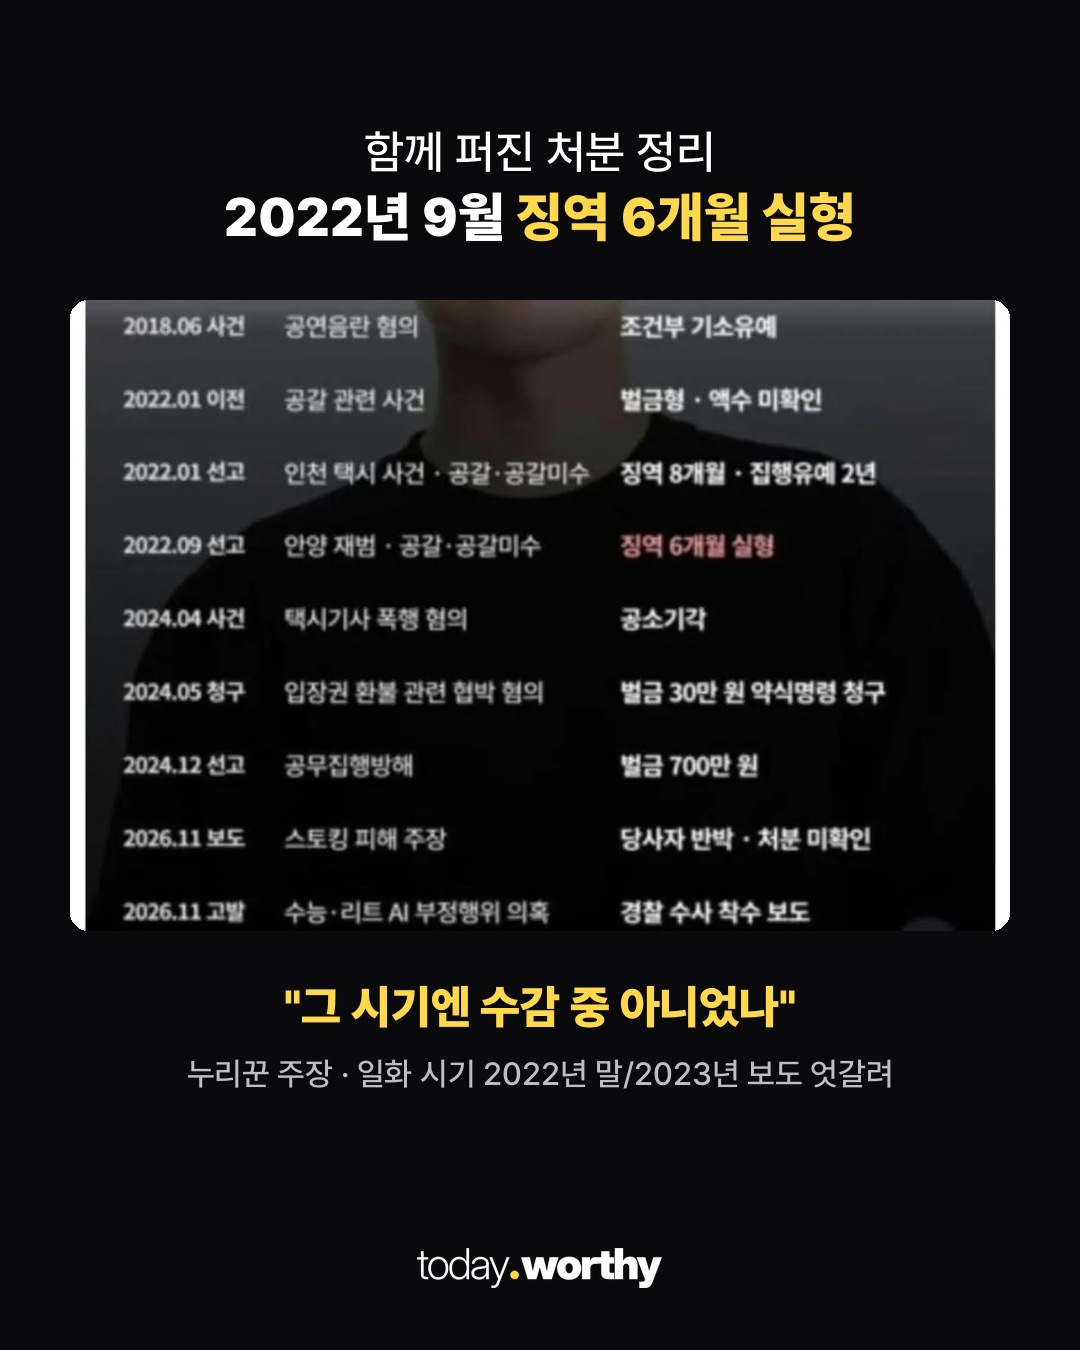
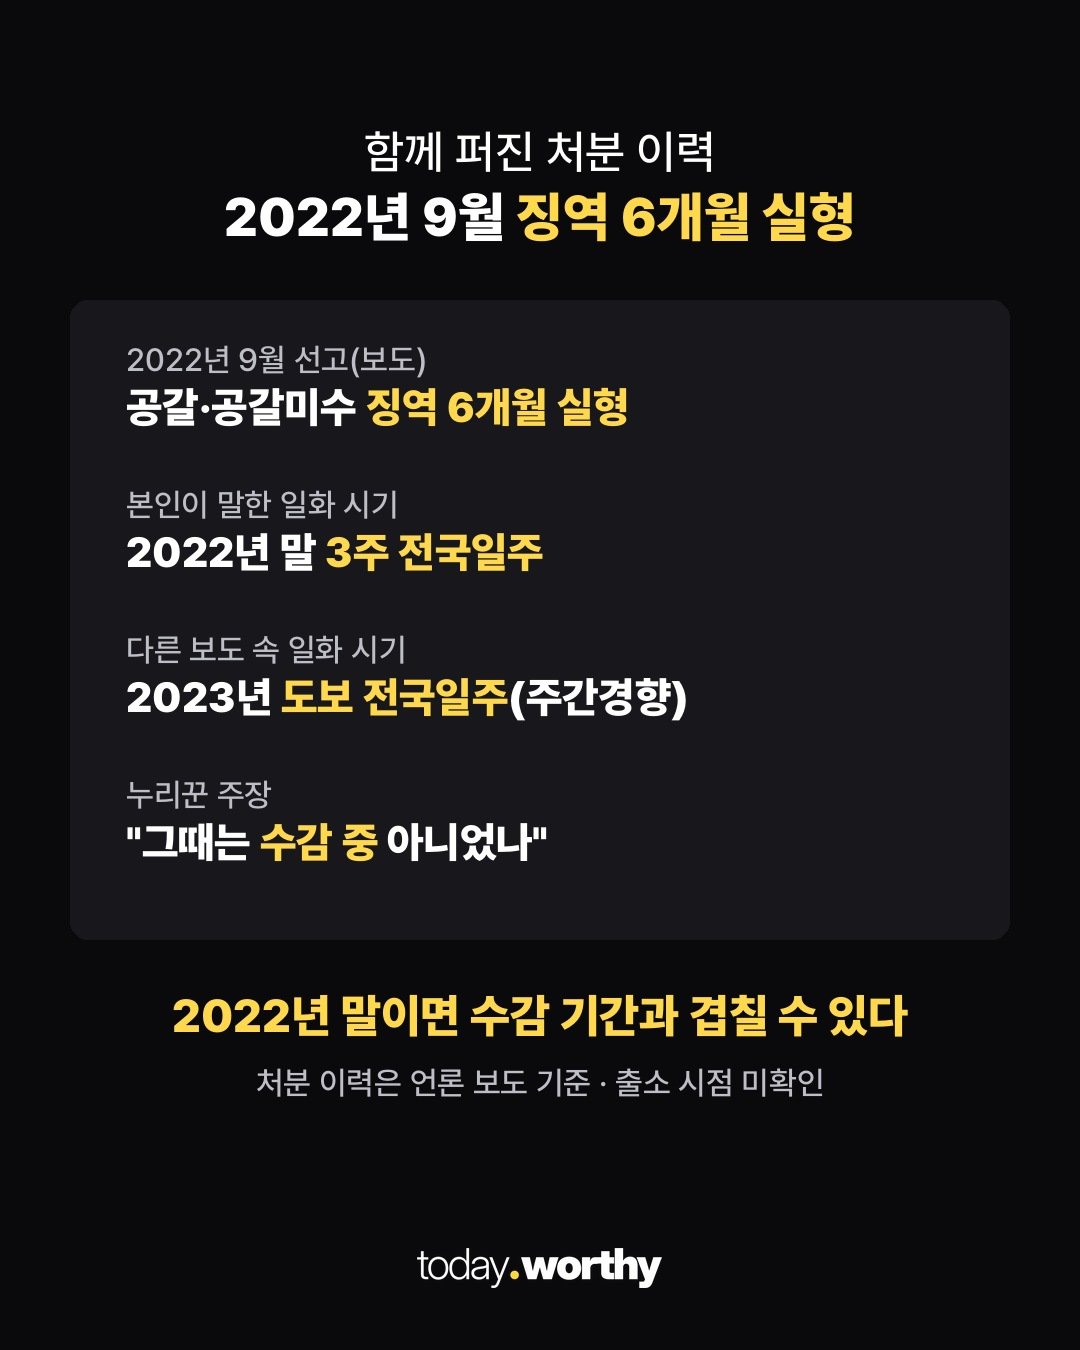
manual: 리트 만점자 패러글라이딩 렌더만(미리보기)

Changed region(s): [[0.0611, 0.2178, 0.9472, 0.8089], [0.5806, 0.0933, 0.6722, 0.1244]]

diff --git a/media/20261121-leetpara/build_cards.py b/media/20261121-leetpara/build_cards.py
@@ -70,16 +70,21 @@ ref = op("ref_full.jpg")  # 참고 게시물(커뮤니티에 돈 캡처)
 namu = ref.crop((100, 0, 1340, 380)).resize((940, round(380 * 940 / 1240)), Image.LANCZOS)
 frame(("커뮤니티에 퍼진 캡처", "본인이 밝혀온 '각성' 일화"), namu,
       "\"단양에서 '패러글라이딩' 설명 읽고 각성\"", "온라인 커뮤니티 게시글 속 나무위키 캡처").save(O / "c02.jpg", quality=93)
-tl = ref.crop((100, 880, 1340, 1712)); tl = tl.resize((940, round(tl.height * 940 / tl.width)), Image.LANCZOS)
-frame(("함께 퍼진 처분 정리", "2022년 9월 '징역 6개월 실형'"), tl,
-      "\"그 시기엔 '수감 중' 아니었나\"", "누리꾼 주장 · 일화 시기 2022년 말/2023년 보도 엇갈려").save(O / "c03.jpg", quality=93)
-# 표지: 왼쪽 인터뷰 사진, 오른쪽 단양 패러글라이딩, 사이 페이드
-pt = op("lee_photo.jpg"); pt = pt.resize((round(pt.width * H / pt.height), H), Image.LANCZOS)
-L = pt.crop((pt.width // 2 - 40 - 330, 0, pt.width // 2 - 40 + 330, H))
-dy = op("danyang.jpg"); dy = dy.resize((round(dy.width * H / dy.height), H), Image.LANCZOS)
-Rt = dy.crop((260, 0, 260 + 660, H))
-cv = Image.new("RGB", (W, H)); cv.paste(Rt, (W - 660, 0)); fade = 240
-m = Image.new("L", (660, H), 255); md = ImageDraw.Draw(m)
-for x in range(660 - fade, 660): md.line([(x, 0), (x, H)], fill=round(255 * (660 - x) / fade))
-cv.paste(L, (0, 0), m); cv.save(O / "cover_bg.jpg", quality=95)
+frame(("함께 퍼진 처분 이력", "2022년 9월 '징역 6개월 실형'"),
+      panel([("2022년 9월 선고(보도)", "공갈·공갈미수 '징역 6개월 실형'"),
+             ("본인이 말한 일화 시기", "2022년 말 '3주 전국일주'"),
+             ("다른 보도 속 일화 시기", "2023년 '도보 전국일주'(주간경향)"),
+             ("누리꾼 주장", "\"그때는 '수감 중' 아니었나\"")], h=640),
+      "2022년 말이면 '수감 기간'과 겹칠 수 있다", "처분 이력은 언론 보도 기준 · 출소 시점 미확인").save(O / "c03.jpg", quality=93)
+b3 = op("baek3.jpg"); b3 = b3.resize((940, round(b3.height * 940 / b3.width)), Image.LANCZOS)
+frame(("인터뷰에서 직접 말한 각성 순간", "\"이 글에만 '집중할 힘'이 생겼다\""), b3,
+      "패러글라이딩 원리 글이 \"'너무 잘' 읽혔다\"", "사진: 유튜브 '지금 백지연' 인터뷰(11.19 공개)").save(O / "c01.jpg", quality=93)
+# 표지: 위 백지연 인터뷰 장면, 아래 패러글라이딩, 사이 페이드
+iv = op("baek1.jpg"); iv = iv.resize((W, round(iv.height * W / iv.width)), Image.LANCZOS)  # 1080x608
+pg = op("para2.jpg").crop((0, 0, 1700, 1000)); PH = 990; pg = pg.resize((round(pg.width * PH / pg.height), PH), Image.LANCZOS)
+x0 = (pg.width - W) // 2 + 120; pg = pg.crop((x0, 0, x0 + W, PH))
+cv = Image.new("RGB", (W, H)); cv.paste(pg, (0, H - PH)); fade = 230
+m = Image.new("L", (W, iv.height), 255); md = ImageDraw.Draw(m)
+for y in range(iv.height - fade, iv.height): md.line([(0, y), (W, y)], fill=round(255 * (iv.height - y) / fade))
+cv.paste(iv, (0, 0), m); cv.save(O / "cover_bg.jpg", quality=95)
 print("ok")
